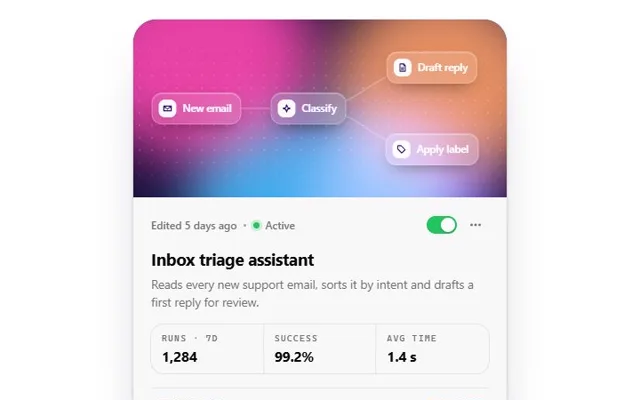
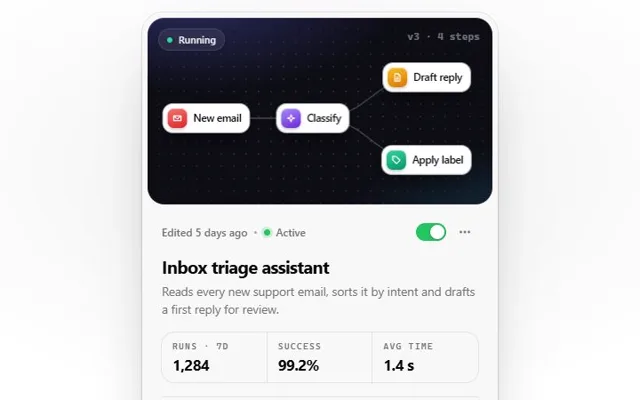
automation-flow-card: crafted node canvas cover, run badge, tighter type, spotlight backdrop
Review fix: replaces the blurred mesh cover with a dark dot-grid flow of white app-icon
chips and one indigo pulse; menu stays closed until clicked.

diff --git a/components/automation-flow-card/automation-flow-card.tsx b/components/automation-flow-card/automation-flow-card.tsx
@@ -12,6 +12,8 @@ export type AutomationFlowCardProps = {
   description?: string
   /** e.g. "Edited 5 days ago". */
   edited?: string
+  /** Small mono note top right of the cover, e.g. "v3 · 4 steps". */
+  runs?: string
   /** Exactly four steps read best: one trigger, one action, two branches. */
   steps?: FlowStep[]
   stats?: FlowStat[]
@@ -44,33 +46,39 @@ const SURFACE = "color-mix(in oklab,var(--color-foreground) 2.5%,var(--color-bac
 const LINE = "color-mix(in oklab,var(--color-foreground) 9%,transparent)"
 
 const CSS =
-  ".afc-stage{display:flex;align-items:center;justify-content:center;padding:48px 16px;box-sizing:border-box;background:var(--color-background);color:var(--color-foreground);font-family:" + SANS + "}" +
-  ".afc-card{position:relative;width:100%;max-width:420px;border-radius:26px;background:" + SURFACE + ";" +
-  "box-shadow:0 0 0 1px " + LINE + ",0 1px 0 color-mix(in oklab,#fff 50%,transparent) inset,0 2px 6px -2px rgba(15,10,40,.12),0 34px 60px -30px rgba(15,10,40,.45);" +
+  ".afc-stage{display:flex;align-items:center;justify-content:center;padding:56px 16px;box-sizing:border-box;color:var(--color-foreground);font-family:" + SANS + ";" +
+  "background:radial-gradient(55% 45% at 50% 42%,color-mix(in oklab,var(--color-foreground) 6%,transparent),transparent 72%),var(--color-background)}" +
+  ".afc-card{position:relative;width:100%;max-width:400px;border-radius:24px;padding:6px;box-sizing:border-box;background:" + SURFACE + ";" +
+  "box-shadow:0 0 0 1px " + LINE + ",0 1px 0 color-mix(in oklab,#fff 50%,transparent) inset,0 2px 6px -2px rgba(12,14,20,.12),0 40px 70px -34px rgba(12,14,20,.5);" +
   "transition:transform .6s " + SPRING + ",box-shadow .6s;animation:afc-in .9s " + EASE + " both}" +
   "@keyframes afc-in{from{opacity:0;transform:translateY(26px) scale(.97)}to{opacity:1;transform:none}}" +
   ".afc-card:hover{transform:translateY(-4px)}" +
-  ".afc-cover{position:relative;height:200px;border-radius:26px 26px 0 0;overflow:hidden;isolation:isolate;background:#160f38;margin:0}" +
-  ".afc-blob{position:absolute;border-radius:50%;filter:blur(30px);mix-blend-mode:screen;opacity:.9;animation:afc-drift var(--d) ease-in-out infinite alternate}" +
-  "@keyframes afc-drift{from{transform:translate(0,0) scale(1)}to{transform:translate(var(--x),var(--y)) scale(1.15)}}" +
-  ".afc-cover::after{content:'';position:absolute;inset:0;z-index:1;background:radial-gradient(rgba(255,255,255,.16) 1px,transparent 1.2px) 0 0/14px 14px;-webkit-mask-image:linear-gradient(180deg,transparent,#000 40%,#000 70%,transparent);mask-image:linear-gradient(180deg,transparent,#000 40%,#000 70%,transparent);pointer-events:none}" +
-  ".afc-card[data-active=false] .afc-blob,.afc-card[data-active=false] .afc-pulse,.afc-card[data-active=false] .afc-node[data-k='0'] .afc-ping{animation-play-state:paused}" +
-  ".afc-card[data-active=false] .afc-cover{filter:saturate(.25) brightness(.85)}" +
-  ".afc-cover{transition:filter .6s}" +
+  ".afc-cover{position:relative;height:210px;border-radius:19px;overflow:hidden;isolation:isolate;margin:0;transition:filter .6s;" +
+  "background:radial-gradient(110% 90% at 12% -10%,rgba(99,102,241,.32),transparent 55%),radial-gradient(80% 70% at 105% 110%,rgba(56,189,248,.16),transparent 60%),#0c0e14;" +
+  "box-shadow:inset 0 0 0 1px rgba(255,255,255,.06),inset 0 1px 0 rgba(255,255,255,.08)}" +
+  ".afc-cover::before{content:'';position:absolute;inset:0;z-index:0;background:radial-gradient(rgba(255,255,255,.11) 1px,transparent 1.3px) 6px 6px/14px 14px;-webkit-mask-image:radial-gradient(85% 75% at 50% 55%,#000 30%,transparent);mask-image:radial-gradient(85% 75% at 50% 55%,#000 30%,transparent);pointer-events:none}" +
+  ".afc-badge{position:absolute;left:12px;top:12px;z-index:4;display:inline-flex;align-items:center;gap:7px;padding:6px 9px;border-radius:999px;font:600 11px/1 " + SANS + ";color:#e7e9f5;background:rgba(255,255,255,.07);border:1px solid rgba(255,255,255,.1);backdrop-filter:blur(8px);-webkit-backdrop-filter:blur(8px)}" +
+  ".afc-badge i{position:relative;width:6px;height:6px;border-radius:50%;background:#34d399}" +
+  ".afc-badge i::after{content:'';position:absolute;inset:0;border-radius:50%;background:#34d399;animation:afc-ping 2.4s " + EASE + " infinite}" +
+  ".afc-card[data-active=false] .afc-badge i,.afc-card[data-active=false] .afc-badge i::after{background:#fbbf24}" +
+  ".afc-ver{position:absolute;right:14px;top:16px;z-index:4;font:500 10.5px/1 " + MONO + ";letter-spacing:.06em;color:rgba(231,233,245,.45)}" +
+  ".afc-card[data-active=false] .afc-pulse,.afc-card[data-active=false] .afc-badge i::after,.afc-card[data-active=false] .afc-ping{animation-play-state:paused}" +
+  ".afc-card[data-active=false] .afc-pulse,.afc-card[data-active=false] .afc-ping{opacity:0}" +
+  ".afc-card[data-active=false] .afc-node{filter:saturate(0);opacity:.75}" +
   ".afc-wires{position:absolute;inset:0;z-index:2;width:100%;height:100%;overflow:visible}" +
-  ".afc-wires path{fill:none;stroke:rgba(255,255,255,.28);stroke-width:1.4}" +
-  ".afc-wires .afc-pulse{stroke:#fff;stroke-width:2.2;stroke-linecap:round;stroke-dasharray:14 400;stroke-dashoffset:14;filter:drop-shadow(0 0 4px #fff) drop-shadow(0 0 10px #ff7ad9);animation:afc-flow 3.2s linear infinite;animation-delay:var(--dl)}" +
-  "@keyframes afc-flow{0%{stroke-dashoffset:14;opacity:1}50%{stroke-dashoffset:-260;opacity:1}51%,100%{stroke-dashoffset:-260;opacity:0}}" +
-  ".afc-node{position:absolute;z-index:3;display:flex;align-items:center;gap:7px;padding:7px 10px 7px 7px;border-radius:12px;font:600 11.5px/1 " + SANS + ";color:#fff;white-space:nowrap;transform:translate(-50%,-50%);" +
-  "background:rgba(255,255,255,.12);border:1px solid rgba(255,255,255,.24);backdrop-filter:blur(12px);-webkit-backdrop-filter:blur(12px);box-shadow:0 8px 20px -8px rgba(0,0,0,.5),inset 0 1px 0 rgba(255,255,255,.25);" +
-  "animation:afc-pop .7s " + SPRING + " both;animation-delay:calc(var(--k) * 110ms + 350ms);transition:translate .6s " + SPRING + "}" +
+  ".afc-wires path{fill:none;stroke:rgba(255,255,255,.24);stroke-width:1.3;stroke-linecap:round}" +
+  ".afc-wires .afc-pulse{stroke:#c7d2fe;stroke-width:2.4;stroke-dasharray:9 100;stroke-dashoffset:9;filter:drop-shadow(0 0 3px #a5b4fc) drop-shadow(0 0 8px #6366f1);animation:afc-flow 2.6s cubic-bezier(.45,0,.35,1) infinite;animation-delay:var(--dl)}" +
+  "@keyframes afc-flow{0%{stroke-dashoffset:9;opacity:1}60%{stroke-dashoffset:-100;opacity:1}61%,100%{stroke-dashoffset:-100;opacity:0}}" +
+  ".afc-node{position:absolute;z-index:3;display:flex;align-items:center;gap:7px;padding:5px 9px 5px 5px;border-radius:11px;font:600 11.5px/1 " + SANS + ";letter-spacing:-.01em;color:#111318;white-space:nowrap;transform:translate(-50%,-50%);" +
+  "background:#fff;box-shadow:0 0 0 1px rgba(255,255,255,.6),0 10px 24px -8px rgba(0,0,0,.7),inset 0 -1px 0 rgba(17,19,24,.08);" +
+  "animation:afc-pop .7s " + SPRING + " both;animation-delay:calc(var(--k) * 110ms + 350ms);transition:translate .6s " + SPRING + ",filter .6s,opacity .6s}" +
   "@keyframes afc-pop{from{opacity:0;scale:.6}to{opacity:1;scale:1}}" +
   ".afc-card:hover .afc-node{translate:0 -3px}" +
   ".afc-card:hover .afc-node[data-k='1']{translate:0 -6px}" +
-  ".afc-node b{display:grid;place-items:center;width:20px;height:20px;border-radius:7px;background:rgba(255,255,255,.95);color:#2a1a6e}" +
-  ".afc-ping{position:absolute;inset:-1px;border-radius:12px;border:1px solid #fff;animation:afc-ping 3.2s " + EASE + " infinite;pointer-events:none}" +
-  "@keyframes afc-ping{0%{opacity:.9;transform:scale(1)}40%,100%{opacity:0;transform:scale(1.35)}}" +
-  ".afc-body{padding:16px 20px 18px}" +
+  ".afc-node b{display:grid;place-items:center;width:22px;height:22px;border-radius:7px;color:#fff;background:var(--t);box-shadow:inset 0 1px 0 rgba(255,255,255,.35),0 2px 4px -1px rgba(0,0,0,.3)}" +
+  ".afc-ping{position:absolute;inset:-1px;border-radius:11px;border:1.5px solid #a5b4fc;animation:afc-ping 2.6s " + EASE + " infinite;pointer-events:none}" +
+  "@keyframes afc-ping{0%{opacity:.9;transform:scale(1)}45%,100%{opacity:0;transform:scale(1.4)}}" +
+  ".afc-body{padding:16px 16px 12px}" +
   ".afc-meta{display:flex;align-items:center;gap:8px;font:500 12px/1 " + SANS + ";color:var(--color-muted-foreground)}" +
   ".afc-meta i{width:3px;height:3px;border-radius:50%;background:currentColor;opacity:.6}" +
   ".afc-status{display:inline-flex;align-items:center;gap:6px}" +
@@ -90,13 +98,13 @@ const CSS =
   ".afc-menu button{width:100%;text-align:left;border:0;background:none;padding:9px 10px;border-radius:9px;font:500 13px/1 " + SANS + ";color:var(--color-foreground);cursor:pointer}" +
   ".afc-menu button:hover{background:color-mix(in oklab,var(--color-foreground) 6%,transparent)}" +
   ".afc-menu button[data-danger=true]{color:#e5484d}" +
-  ".afc-title{font:650 19px/1.2 " + SANS + ";letter-spacing:-.02em;margin:12px 0 6px}" +
+  ".afc-title{font:700 20px/1.15 " + SANS + ";letter-spacing:-.03em;margin:12px 0 6px}" +
   ".afc-desc{font:400 13.5px/1.5 " + SANS + ";color:var(--color-muted-foreground);margin:0}" +
   ".afc-stats{display:grid;grid-template-columns:repeat(3,1fr);margin:16px 0;border-radius:14px;box-shadow:0 0 0 1px " + LINE + "}" +
   ".afc-stats div{padding:11px 12px}" +
   ".afc-stats div+div{box-shadow:-1px 0 0 " + LINE + "}" +
   ".afc-stats dt{font:500 10px/1 " + MONO + ";letter-spacing:.12em;text-transform:uppercase;color:var(--color-muted-foreground);margin-bottom:7px}" +
-  ".afc-stats dd{margin:0;font:650 16px/1 " + SANS + ";letter-spacing:-.02em;font-variant-numeric:tabular-nums}" +
+  ".afc-stats dd{margin:0;font:650 17px/1 " + SANS + ";letter-spacing:-.03em;font-variant-numeric:tabular-nums lining-nums}" +
   ".afc-foot{display:flex;align-items:center;justify-content:space-between;gap:12px;padding-top:14px;border-top:1px solid " + LINE + "}" +
   ".afc-people{display:flex;align-items:center}" +
   ".afc-people span{position:relative;width:28px;height:28px;border-radius:50%;overflow:hidden;margin-left:-8px;box-shadow:0 0 0 2px " + SURFACE + ";transition:transform .45s " + SPRING + ",margin .45s " + SPRING + "}" +
@@ -108,9 +116,17 @@ const CSS =
   ".afc-ints{display:flex}" +
   ".afc-ints span{width:28px;height:28px;border-radius:50%;display:grid;place-items:center;color:#fff;margin-left:-6px;box-shadow:0 0 0 2px " + SURFACE + "}" +
   ".afc-ints span:first-child{margin-left:0}" +
-  "@media (prefers-reduced-motion:reduce){.afc-card,.afc-blob,.afc-node,.afc-ping,.afc-menu,.afc-wires .afc-pulse{animation:none}.afc-card,.afc-switch::after,.afc-node,.afc-people span{transition:none}.afc-card:hover{transform:none}.afc-wires .afc-pulse{opacity:0}}"
+  "@media (prefers-reduced-motion:reduce){.afc-card,.afc-node,.afc-ping,.afc-menu,.afc-badge i::after,.afc-wires .afc-pulse{animation:none}.afc-card,.afc-switch::after,.afc-node,.afc-people span{transition:none}.afc-card:hover{transform:none}.afc-wires .afc-pulse{opacity:0}}"
 
 const INT_COLORS = ["#3b82f6", "#a855f7", "#ef4444", "#f59e0b", "#10b981", "#ec4899"]
+const TINT: Record<FlowIcon, string> = {
+  mail: "linear-gradient(160deg,#f87171,#dc2626)",
+  spark: "linear-gradient(160deg,#a78bfa,#6d28d9)",
+  doc: "linear-gradient(160deg,#fbbf24,#d97706)",
+  tag: "linear-gradient(160deg,#34d399,#059669)",
+  chat: "linear-gradient(160deg,#60a5fa,#1d4ed8)",
+  bolt: "linear-gradient(160deg,#fb923c,#ea580c)",
+}
 
 function Icon({ name, size = 12 }: { name: FlowIcon; size?: number }) {
   return (
@@ -122,17 +138,18 @@ function Icon({ name, size = 12 }: { name: FlowIcon; size?: number }) {
 
 // Node centres in percent of the cover, and the wires between them in a 400x200 box.
 const POS = [
-  [17, 50],
-  [47, 50],
-  [80, 27],
-  [80, 73],
+  [17, 54],
+  [48, 54],
+  [81, 32],
+  [81, 76],
 ]
-const WIRES = ["M68 100 C 120 100, 140 100, 188 100", "M188 100 C 250 100, 250 54, 320 54", "M188 100 C 250 100, 250 146, 320 146"]
+const WIRES = ["M68 113 C 110 113, 150 113, 192 113", "M192 113 C 262 113, 254 67, 324 67", "M192 113 C 262 113, 254 160, 324 160"]
 
 export default function AutomationFlowCard({
   title,
   description,
   edited = "Edited 5 days ago",
+  runs = "v3 · 4 steps",
   steps = [
     { label: "New email", icon: "mail" },
     { label: "Classify", icon: "spark" },
@@ -182,20 +199,21 @@ export default function AutomationFlowCard({
       <style>{CSS}</style>
       <article className="afc-card" data-active={active} aria-labelledby={id + "t"}>
         <figure className="afc-cover" aria-hidden="true">
-          <span className="afc-blob" style={{ width: 260, height: 220, left: -60, top: -70, background: "#ff3d9a", ["--d" as string]: "9s", ["--x" as string]: "40px", ["--y" as string]: "30px" }} />
-          <span className="afc-blob" style={{ width: 240, height: 220, right: -50, top: -40, background: "#ff9a3c", ["--d" as string]: "11s", ["--x" as string]: "-50px", ["--y" as string]: "40px" }} />
-          <span className="afc-blob" style={{ width: 300, height: 200, left: 60, bottom: -110, background: "#2bb7ff", ["--d" as string]: "13s", ["--x" as string]: "30px", ["--y" as string]: "-30px" }} />
-          <span className="afc-blob" style={{ width: 200, height: 180, right: 20, bottom: -90, background: "#7b4dff", ["--d" as string]: "10s", ["--x" as string]: "-30px", ["--y" as string]: "-20px" }} />
-          <svg className="afc-wires" viewBox="0 0 400 200" preserveAspectRatio="none">
+          <span className="afc-badge">
+            <i />
+            {active ? "Running" : "Paused"}
+          </span>
+          <span className="afc-ver">{runs}</span>
+          <svg className="afc-wires" viewBox="0 0 400 210" preserveAspectRatio="none">
             {WIRES.map((d, k) => (
               <g key={k}>
                 <path d={d} />
-                <path className="afc-pulse" d={d} style={{ ["--dl" as string]: (k === 0 ? 0 : 1.1) + "s" }} />
+                <path className="afc-pulse" d={d} pathLength={100} style={{ ["--dl" as string]: (k === 0 ? 0 : 0.9) + "s" }} />
               </g>
             ))}
           </svg>
           {steps.slice(0, 4).map((s, k) => (
-            <span key={s.label + k} className="afc-node" data-k={k} style={{ left: POS[k][0] + "%", top: POS[k][1] + "%", ["--k" as string]: k }}>
+            <span key={s.label + k} className="afc-node" data-k={k} style={{ left: POS[k][0] + "%", top: POS[k][1] + "%", ["--k" as string]: k, ["--t" as string]: TINT[s.icon ?? "bolt"] }}>
               <b>
                 <Icon name={s.icon ?? "bolt"} />
               </b>

diff --git a/components/automation-flow-card/README.md b/components/automation-flow-card/README.md
@@ -1,6 +1,6 @@
 # Automation Flow Card
 
-A workflow card for an automation builder's dashboard. The cover is a live mini-flow: four glass step chips over a drifting aurora, with light pulses running along the wires from the trigger to each branch and a ping on the trigger. Below it: when it was edited, an Active/Paused status with a spring switch, a "more" menu that pops from the corner, the title and description, three stats, collaborators' faces that spread on hover, and the connected apps.
+A workflow card for an automation builder's dashboard. The cover is a live mini-flow on a dark dot-grid canvas: four white step chips with tinted app-icon tiles, indigo light pulses running along the wires from the trigger to each branch, a ping on the trigger, and a Running badge. Below it: when it was edited, an Active/Paused status with a spring switch, a "more" menu that pops from the corner, the title and description, three stats, collaborators' faces that spread on hover, and the connected apps.
 
 Pausing the workflow freezes the cover and desaturates it, so state reads at a glance. The card surface comes from your `--color-background` and `--color-foreground`, so it matches light and dark pages.
 
@@ -26,6 +26,7 @@ import AutomationFlowCard from "@/components/ui/automation-flow-card"
 | `title` | required | Workflow name. |
 | `description` | none | One or two lines. |
 | `edited` | `"Edited 5 days ago"` | Meta text. |
+| `runs` | `"v3 · 4 steps"` | Mono note top right of the cover. |
 | `steps` | email triage | Four `{ label, icon? }`: trigger, action, two branches. Icons: `mail`, `spark`, `tag`, `chat`, `bolt`, `doc`. |
 | `stats` | `[]` | Up to three `{ label, value }`. |
 | `people` / `extraPeople` | `[]` / `0` | Collaborator photos and a "+N" count. |
@@ -38,5 +39,5 @@ import AutomationFlowCard from "@/components/ui/automation-flow-card"
 ## Notes
 
 - The cover is CSS and one SVG; node positions and wires share percentage coordinates, so nothing is measured.
-- Reduced motion: no drift, pulses, pings or pop-ins.
+- Reduced motion: no pulses, pings or pop-ins.
 - The demo inlines four free Unsplash portraits as tiny WebP so it makes no off-origin requests.
